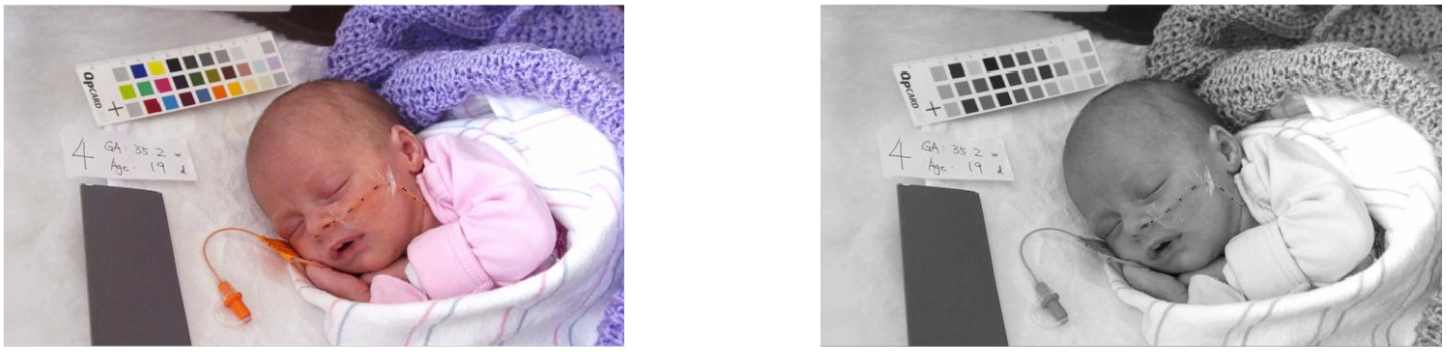
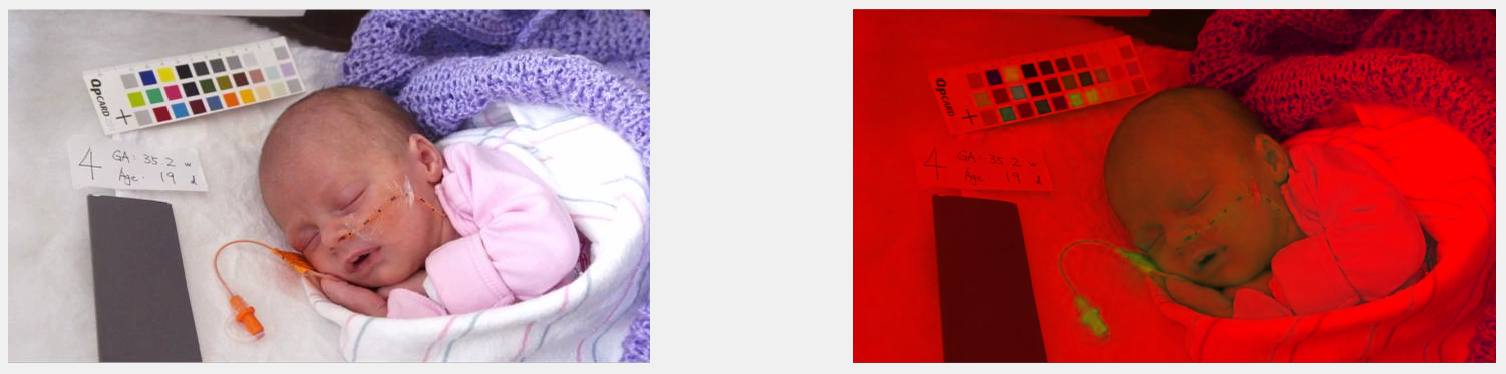
Update A2/web and gitignore

diff --git a/A2/web/index.html b/A2/web/index.html
@@ -59,6 +59,10 @@
       font-size: 12px;
     }
 
+    .embed-responsive video {
+      width: 50%;
+    }
+
     </style>
   </head>
   <body>
@@ -66,7 +70,7 @@
     <div class="container">
 
       <div class="title">
-        <h1>IIT6028 HA#2&nbsp;<small>Computational Photography</small></h1>
+        <h1>IIT6028 HA#2&nbsp;<small>Computational Photography</small>&nbsp;<span class="badge">LATE DAY: 3</span></h1>
       </div>
 
       <div class="student-info">
@@ -88,26 +92,27 @@
 
       <br/>
       <img class="results_img" src="./img/img_1_original_vs_yiq.png" alt="img_1_original_vs_yiq">
-      <p><i>[1 2] 1: frame #1 original / 2: frame #1 only Y from YIQ</i></p>
+      <p><i>[1 2] 1: frame #1 original / 2: frame #1 converted to YIQ</i></p>
       <br/>
 
       <p><a href="https://en.wikipedia.org/wiki/YIQ">YIQ</a> in WIKIPEDIA</p>
       <p>In YIQ color space, Y component represents the luma information, and is the only component used by black-and-white television recievers.</p>
       <p>I and Q represent the chrominance information.</p>
-      <p>So I just use Y component in this project.</p>
+      <p>So I just focused on Y component in this project.</p>
       <br/>
-      <p>Total required time: </p>
+      <p>Total required time: 180s</p>
       <p>It takes quite a lot of time. Because we have to apply all processes in every frames.</p>
+      <p>So I saved <code>frame_list</code>, <code>Fs</code>, <code>height</code>, <code>width</code>, <code>ch</code>, and <code>frame_number</code> as <code>.mat</code> file and loaded it for test.</p>
 
       <hr/>
       <h3>2. LAPLACIAN PYRAMID<br/><small></small></h3>
 
       <p>Using <a href="https://github.com/PJunhyuk/IIT6028/blob/master/A2/A2.m">get_laplacian_pyramid</a> function.</p>
-      <p><code>get_laplacian_pyramid</code> function gets <code>image_original</code>.</p>
-      <p>And it apply gaussian filter on it, to generate <code>image_blurred</code>.</p>
+      <p><code>get_laplacian_pyramid</code> function gets <code>image_original</code>, and it apply gaussian filter on it, to generate <code>image_blurred</code>.</p>
       <p>When applying gaussan filter, I set <code>gaussian_stdev</code> as 2.</p>
       <p>Then calculate <code>image_residual</code> as <code>image_origianl - image_blurred</code>.</p>
       <p>I made it as function to repeat this process easily.</p>
+      <p><i>I didn't used built-in function, likes <code>impyramid</code>.</i><p>
       <br/>
 
       <p>We can easily figure out <code>image_gaussian_N</code> is 2^N smaller then original image.</p>
@@ -115,48 +120,129 @@
       <p>So each cycle, we generate <code>image_gaussian_N+1</code> and <code>image_residual_N</code> from <code>image_guassian_N</code>.</p>
       <br/>
 
-      <p>In this project, I applied laplacian pyramid twice, so generated guassian_1, guassian_2, residual_0, residual_1.</p>
+      <p>In this project, I applied laplacian pyramid 4 times, so generated guassian_1, guassian_2, gaussian_3, gaussian_4, residual_0, residual_1, residual_2, residual_3.</p>
       <p>You can check it by following image. All results are matched with size of original frame, using <code>imresize</code> function in matlab.</p>
-      <p><code>imresize</code> function uses bicubic interpolation to upsample it.</p>
+      <p><i>In that image, their are only 2 times of laplacian pyramid.</i></p>
+      <p><i><code>imresize</code> function uses bicubic interpolation to upsample it.</i></p>
 
       <br/>
       <img class="results_img" src="./img/img_2_laplacian_pyramid.png" alt="img_2_laplacian_pyramid">
       <p><i>[1 4 / 2 5 / 3 -] 1: frame_original / 2: gaussian_1(*2) / 3: gaussain_2(*4) / 4: residual_0 / 5: residual_1(*2)</i></p>
       <br/>
 
-      <p>And we can reconstruct original image from low level of gaussian & residual images.</p>
-      <p>We can reconstruct <code>image_reconstruct_N</code> from <code>image_gaussian_N+1</code> and <code>image_residual_N</code>.</p>
+      <p>And we can reconstruct original image from low level of gaussian & residual images using <code>laplacian_up</code> function.</p>
+      <p>In this function, We can reconstruct <code>image_reconstruct_N</code> from <code>image_gaussian_N+1</code> and <code>image_residual_N</code>.</p>
       <p>Just generate <code>image_gaussian_up</code> from upsampling <code>image_gaussian_N+1</code> using <code>imresize</code> function.</p>
       <p>And add <code>image_gaussian_up</code> and <code>image_residual_N</code> for generate <code>image_reconstruct</code>.</p>
+      <br/>
 
-      <br/>
-      <img class="results_img" src="./img/img_2_recontruct.png" alt="img_2_recontruct">
+      <!-- <img class="results_img" src="./img/img_2_recontruct.png" alt="img_2_recontruct">
       <p><i>[1 2] 1: frame_original / 2: reconstructed image by image_residual_0, image_residual_1, image_gaussian_2</i></p>
-      <br/>
+      <br/> -->
 
       <p>We can check original image and reconstructed image by laplacian pyramid is almost same.</p>
+      <br/>
+
+      <p>In this project, we use temporal data, so we have to create <code>cube</code> using <a href="https://github.com/PJunhyuk/IIT6028/blob/master/A2/A2.m">get_cube</a> function.</p>
+      <p><code>cube</code> is array of gaussian/residual images by each frame.</p>
+      <p>I generate <code>cube</code> for gaussian & residual images by using <code>get_cube</code> function. It means temporal set of images.</p>
+      <p>I used <code>get_laplacian_pyramid</code> function for each frame of this video, and save them as array.</p>
 
       <hr/>
       <h3>3. TEMPORAL FILTERING<br/><small></small></h3>
 
+      <p>In this process, we find best filter for the <code>fft</code> of this cube.</p>
+      <p>To figure out frequncy elements of this signal, we make <code>cube_pixel</code>, which is made by temporal vector of cube on the exactly same position.</p>
+      <p>We calculate <code>fft</code> of that vector for each pixel, and calculate sum of them. We call it <code>cube_fft</code>.</p>
+
+      <br/>
+      <img class="results_img" src="./img/img_3_fft.png" alt="img_3_fft">
+      <p><i>sum of <code>cube_pixel</code>'s <code>fft</code>. It's also mean <code>cube_fft</code></i></p>
+      <br/>
+
+      <p>We can easily figure out which parts we have to increase. In this case, we have to increase that pick in near by 1Hz.</p>
+
+      <br/>
+      <img class="results_img" src="./img/img_3_filter.png" alt="img_3_filter">
+      <p><i>visualization of <code>butterworthBandpassFilter</code></i></p>
+      <br/>
+
+      <p>This is plot of given <code>butterworthBandpassFilter</code>. We know it's interest frequncy is 0.83Hz - 1Hz. It is similar with peak of <code>cube_fft</code>.</p>
+
+      <br/>
+      <img class="results_img" src="./img/img_3_fft_and_filter.png" alt="img_3_fft_and_filter">
+      <p><i><code>butterworthBandpassFilter</code> + <code>cube_fft</code> in one plot</i></p>
+      <br/>
+
+      <p>This image represents <code>butterworthBandpassFilter</code> and <code>cube_fft</code> in one time. We can easily figure out that peak is almost same.</p>
+      <p>So for <code>baby2.mp4</code>, this filter will be most suitable one.</p>
+
       <hr/>
       <h3>4. EXTRACTING THE FREQUENCY BAND OF INTEREST<br/><small></small></h3>
+
+      <p>We apply designed filter on each cubes which made by <a href="https://github.com/PJunhyuk/IIT6028/blob/master/A2/A2.m">get_cube</a> function.</p>
+      <p>I implemented <a href="https://github.com/PJunhyuk/IIT6028/blob/master/A2/A2.m">filter_cube</a> function for it.</p>
+      <p>In this function, we create <code>cube_pixel</code>. It is 1 dim array, and it is temporal data of values in the same position pixels.</p>
+      <p>I created <code>Hd_fft</code> using <code>freqz</code> function.</p>
+      <p>Then, I applied <code>fft</code> on <code>cube_pixel</code> to apply filter, generate <code>cube_pixel_fft</code>.</p>
+      <p>And multiply <code>Hd_fft</code> on it to apply that filter, and apply <code>ifft</code> to re-convert to original domain.</p>
+      <p>Also, we apply <code>abs</code> on the result of <code>ifft</code>.</p>
+      <p>All of this procedures are applied for only first channel of <code>cube</code>, and after it, we have to insert that 1 dim array to <code>cube</code>, and create <code>cube_filtered</code>.</p>
+      <p><i>I manage memory using <code>clear</code> function. I cleared <code>Hd</code>, which for filter, to manage memory.</i></p>
 
       <hr/>
       <h3>5. IMAGE RECONSTRUCTION<br/><small></small></h3>
 
-      <p>First, I generate <code>cube</code> for gaussian & residual images by using <code>get_cube</code> function. It means temporal set of images.</p>
-      <p>For each pixels in image, I generated vector called <code>cube_pixel</code>. It is composed up each value of the pixel in the all frames.</p>
-      <p>Then apply <code>butterworthBandpassFilter</code> to each of them, and reconstruct <code>cube</code> with their results. It's on <code>get_cube_f_s</code> function.</p>
-      <p>I could figure out values of results become too small, so we have to upscale them.</p>
-      <p>I used <code>[min(image(:)) max(image(:))]</code> to scaling the display based on the range of pixel values in image.</p>
-      <p>For variables in codes, <code>_f</code> means filtered, and <code>_s</code> means upscaled.</p>
+      <p>In this process, we reconstruct new sequence of video using filtered cubes.</p>
+      <p>We have to extract image from cube, for every frame. Then sum them with weighted value, alpha.</p>
+      <p>We can apply different values of alpha for every cube. But in this project, I set them same.</p>
+      <p>So we sum all gaussian & residual images with multiplication alpha, and then finally sum with original frame sequence, <code>frame_list</code>.</p>
+      <p>And also we used <code>imresize</code> function for this process.</p>
+      <p>Finally, we combine array of channel 1 - reconstructed one, and array of channel 2, 3 - same with origianl frame sequnce.</p>
       <br/>
 
-      <p>Finally we have to reconstruct original <code>cube_f_s</code> from gaussian & residual <code>cube_f_s</code>.</p>
-      <p>We can use </p>
+      <p>And last we have to save that reconstructed frame sequence as video. We can use <a href="https://github.com/PJunhyuk/IIT6028/blob/master/A2/A2.m">make_avi</a> function.</p>
+      <p>In that function, we use <code>VideoWriter</code> to convert sequnce to video, and apply <code>imadjust</code> and <code>stretchlim</code> function to apply suitable range for it.</p>
+      <p>At last, we convert each <code>cube_frame</code> color set to RGB from YIQ, so we have to use <code>ntsc2rgb</code> function.</p>
+      <br/>
 
-      <p></p>
+      <p>We can check result is quite good. We can much better on figure out baby's breating. You can check it on <code>baby2_0.83_1_100.avi</code>.</p>
+
+      <hr/>
+      <h3>face.mp4<br/><small></small></h3>
+      <p>And let's see about <code>face.mp4</code>.</p>
+
+      <br/>
+      <img class="results_img" src="./img/img_3_fft_face.png" alt="img_3_fft_face">
+      <p><i><code>cube_fft</code> of <code>face.mp4</code></i></p>
+      <br/>
+
+      <p>In this plot, we can see there are some peaks. First one is near by 0.5Hz, and second one is near by 1Hz.</p>
+      <p>So I designed a lot of <code>butterworthBandpassFilter</code> to focus on 0.5Hz between 1Hz to find best filter.</p>
+      <p>We can see little difference of face color, and motion.</p>
+      <p>I think <code>face_0.8_1_200.avi</code> is best.</p>
+
+      <hr/>
+      <h3>6. EXTRA CREDIT: CAPTURE AND MOTION-MAGNIFY YOUR OWN VIDEO(S)<br/><small></small></h3>
+      <p>And let's see about <code>hand.mp4</code>. I recorded my hand myself.</p>
+
+      <br/>
+      <img style="height: 300px; width: auto;" class="results_img" src="./img/img_0_hand.png" alt="img_0_hand">
+      <p><i>capture of <code>hand.mp4</code></i></p>
+      <br/>
+
+      <p>I took a video to amplify motion of my hand.</p>
+      <p>This is a random frame of <code>hand.mp4</code>. Let's check it's <code>fft</code> plot.</p>
+
+      <br/>
+      <img class="results_img" src="./img/img_3_fft_hand.png" alt="img_3_fft_hand">
+      <p><i><code>cube_fft</code> of <code>hand.mp4</code></i></p>
+      <br/>
+
+      <p>We can check peaks of <code>cube_fft</code>. So I tested many kinds of filters.</p>
+      <p>If you see result video, you will can check some problems. I think its because color system of cellular phone.</p>
+      <p>But it have not a bad effect on motion amplifying, so I didn't solved it.</p>
+
 
       <p><br/><i>You can check full matlab codes in <a href="https://github.com/PJunhyuk/IIT6028/tree/master/A1/web">GitHub Repo</a>.</i></p>
 
